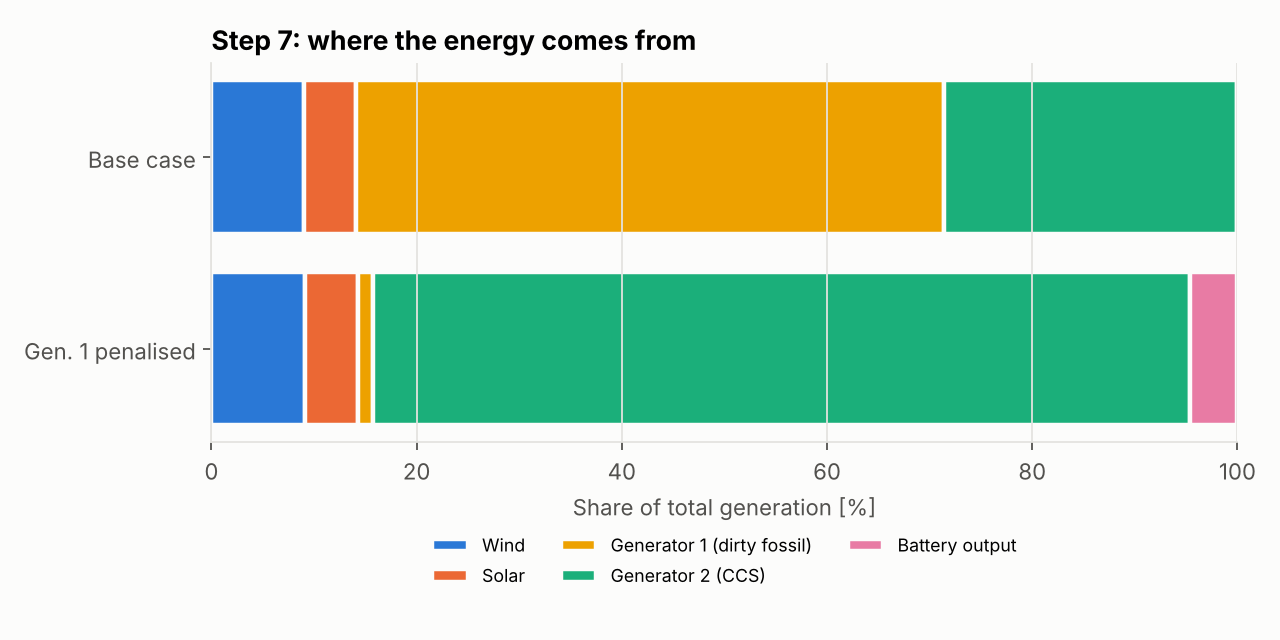
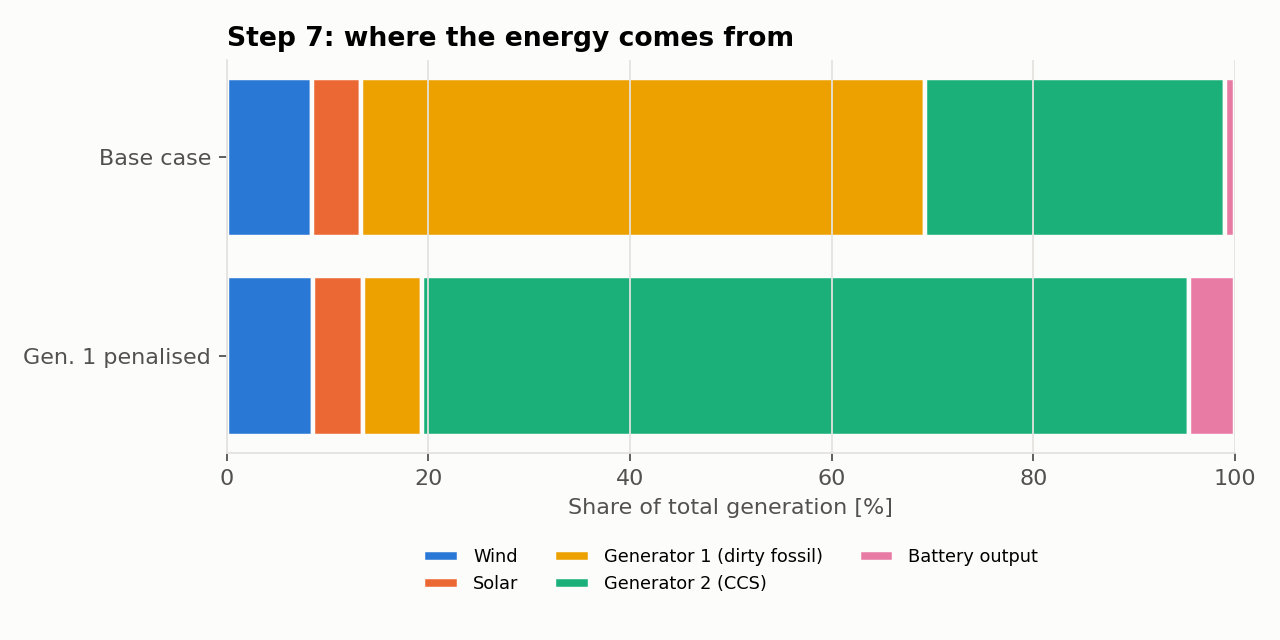
plots updated

diff --git a/src/island/plots.py b/src/island/plots.py
@@ -50,28 +50,34 @@ def plot_profiles(p: pd.DataFrame, path: Path) -> None:
 
 def plot_schedule(r: dict, path: Path, title: str) -> None:
     s = r["schedule"] / 1000
-    fig, ax = plt.subplots(2, 3, figsize=(13, 6.5), sharex=True)
-    ax = ax.ravel()
-    ax[0].plot(s.index, s["Power gen. 1 [W]"], color=COL["Gen 1"], lw=2, label="Generator 1 (dirty fossil)")
-    ax[0].plot(s.index, s["Power gen. 2 [W]"], color=COL["Gen 2"], lw=2, ls="--", label="Generator 2 (CCS)")
-    ax[0].set_title("Output of the generators"); ax[0].legend(fontsize=8)
-    ax[1].plot(s.index, s["Battery output power [W]"], color=COL["Battery"], lw=2, label="Output (discharge)")
-    ax[1].plot(s.index, s["Battery input power [W]"],  color=INK2,           lw=2, ls="--", label="Input (charge)")
-    ax[1].set_title("Battery input and output"); ax[1].legend(fontsize=8)
-    ax[2].plot(s.index, s["Battery energy level [Wh]"], color=INK, lw=2)
-    ax[2].set_title("Energy level in the battery [kWh]")
-    ax[3].plot(s.index, s["Wind power [W]"],  color=COL["Wind"],  lw=2, label="Wind")
-    ax[3].plot(s.index, s["Solar power [W]"], color=COL["Solar"], lw=2, label="Solar")
-    ax[3].set_title("Output of the renewables"); ax[3].legend(fontsize=8)
-    ax[4].plot(s.index, s["Load [W]"], color=INK, lw=2)
-    ax[4].set_title("Load")
-    ax[5].plot(s.index, s["Total generation [W]"],  color=INK,        lw=2, label="Total generation")
-    ax[5].plot(s.index, s["Total consumption [W]"], color=COL["Wind"], lw=2, ls=":", label="Total consumption")
-    ax[5].set_title("Generation vs. consumption"); ax[5].legend(fontsize=8)
-    for a in ax:
-        a.set_ylabel("Power [kW]" if a is not ax[2] else "Energy [kWh]")
-    for a in ax[3:]:
+    t = s.index
+    fig, ax = plt.subplots(2, 4, figsize=(16, 7))
+    g1, g2 = s["Power gen. 1 [W]"], s["Power gen. 2 [W]"]
+    ax[0, 0].plot(t, g1, color=COL["Gen 1"], lw=2, label="Generator 1 (dirty fossil)")
+    ax[0, 0].plot(t, g2, color=COL["Gen 2"], lw=2, ls="--", label="Generator 2 (CCS)")
+    ax[0, 0].plot(t, g1 + g2, color=INK, lw=1.5, ls=":", label="Total power")
+    ax[0, 0].set_title("Output of the generators"); ax[0, 0].legend(fontsize=8)
+    ax[0, 1].plot(t, s["Battery output power [W]"], color=COL["Battery"], lw=2)
+    ax[0, 1].set_title("Output of the battery")
+    w, so = s["Wind power [W]"], s["Solar power [W]"]
+    ax[0, 2].plot(t, w,  color=COL["Wind"],  lw=2, label="Wind")
+    ax[0, 2].plot(t, so, color=COL["Solar"], lw=2, label="Solar")
+    ax[0, 2].plot(t, w + so, color=INK, lw=1.5, ls=":", label="Total power")
+    ax[0, 2].set_title("Output of the renewables"); ax[0, 2].legend(fontsize=8, loc="lower left")
+    ax[0, 3].plot(t, s["Total generation [W]"], color=INK, lw=2)
+    ax[0, 3].set_title("Total generation")
+    ax[1, 0].plot(t, s["Load [W]"], color=INK, lw=2)
+    ax[1, 0].set_title("Load")
+    ax[1, 1].plot(t, s["Battery input power [W]"], color=INK2, lw=2)
+    ax[1, 1].set_title("Input of the battery")
+    ax[1, 2].plot(t, s["Battery energy level [Wh]"], color=INK, lw=2)
+    ax[1, 2].set_title("Energy level in the battery")
+    ax[1, 3].plot(t, s["Total consumption [W]"], color=INK, lw=2)
+    ax[1, 3].set_title("Total consumption")
+    for a in ax.ravel():
         a.set_xlabel("Time of day [hours]")
+        a.set_ylabel("Power [kW]")
+    ax[1, 2].set_ylabel("Energy [kWh]")
     fig.suptitle(title, x=0.01, ha="left", fontweight="bold")
     _save(fig, path)
 

diff --git a/src/island/data.py b/src/island/data.py
@@ -34,16 +34,17 @@ def island_profile(seed: int = 3) -> pd.DataFrame:
     rng = np.random.default_rng(seed)
     h = np.arange(HOURS)
 
-    load = (
-        23_500
-        + 14_000 * np.exp(-0.5 * ((h - 9.0) / 2.0) ** 2)
-        + 18_000 * np.exp(-0.5 * ((h - 13.5) / 2.2) ** 2)
-        + 34_000 * np.exp(-0.5 * ((h - 19.5) / 2.4) ** 2)
-    ) * rng.normal(1.0, 0.02, HOURS)
+    # Load: typical residential day — flat night base, morning rise, busy midday,
+    # sharp evening peak when people come home, steep drop late at night.
+    shape_kw = np.array([24.0, 23.6, 23.4, 23.5, 23.8, 24.4, 26.0, 30.5, 37.5, 43.0, 46.0, 45.0,
+                         47.5, 45.5, 42.0, 41.5, 44.5, 56.0, 66.0, 63.5, 60.0, 58.5, 47.0, 29.0])
+    load = shape_kw * 1000 * rng.normal(1.0, 0.01, HOURS)
 
+    # Solar: clear-sky bell between ~05:30 and ~21:00 with passing clouds, peak about 6 kW
     shape = np.clip(np.sin(np.pi * (h - 5.5) / 15.5), 0, None) ** 1.4
     solar = 6_000 * shape * np.clip(rng.normal(0.95, 0.10, HOURS), 0.6, 1.0)
 
+    # Wind: smooth random series around a 15 % capacity factor (a calm day), turbines max 33.6 kW
     x = np.zeros(HOURS)
     for t in range(1, HOURS):
         x[t] = 0.85 * x[t - 1] + rng.normal(0, 0.04)

diff --git a/README.md b/README.md
@@ -38,82 +38,91 @@ real-world costs. They are kept on purpose, so the results can be compared with 
 ### Step 1: Inspect the consumption and weather profile
 ![Step 1](assets/step1_profiles.png)
 
-The load is low at night (about 24 kW), rises in the morning, stays around 41–45 kW during the
-day and peaks at **57 kW around 19 h**, when people are home. Solar follows the sun and peaks
-around midday. Wind is low on this calm day. Together, wind and solar supply only **14 % of the
-daily load** and are below the load in every hour, so the generators and the battery are needed.
+The load is low at night (about 24 kW), rises in the morning, stays around 42–47 kW during the
+day, and then jumps to a sharp **evening peak of 67 kW at 18 h**, when people come home. It drops
+steeply late at night. Solar follows the sun and peaks around midday. Wind is low on this calm
+day. Together, wind and solar supply only **14 % of the daily load** and are below the load in
+every hour, so the generators and the battery are needed.
 
 ### Step 2: Build and solve the model
 The model finds the cheapest schedule for all 24 hours at once.
 
 ### Step 3: Check the power balance and the limits
 * Generation equals consumption in every hour (consumption includes battery charging).
-* Generator 1 stays between 10 and 40 kW, and Generator 2 between 10 and 19 kW.
+* Generator 1 stays between 10 and 40 kW, and Generator 2 between 10 and 21 kW.
 * Neither changes by more than 5 kW per hour.
 
 ### Step 4: Compare the costs of the generators
 | | Energy | Cost |
 |---|---:|---:|
-| Generator 1 (€0.06/Wh) | 538 kWh | €32,284 |
-| Generator 2 (€0.12/Wh) | 269 kWh | €32,286 |
-| Battery (€3.4/Wh) | 10.7 kWh charged | €36,271 |
-| **Total** | | **€100,841** |
+| Generator 1 (€0.06/Wh) | 557 kWh | €33,420 |
+| Generator 2 (€0.12/Wh) | 297 kWh | €35,640 |
+| Battery (€3.4/Wh) | 23.8 kWh in, 9.6 kWh out | €113,822 |
+| **Total** | | **€182,883** |
 
 Generator 2 is twice as expensive per Wh, so the model uses it as little as possible. It runs at
-its 10 kW minimum most of the day and only rises in the evening, when Generator 1 is limited by
-its 5 kW/h ramp and its 40 kW maximum.
+its 10 kW minimum most of the day and only rises in the morning and evening, when Generator 1
+is limited by its 5 kW/h ramp or its 40 kW maximum.
 
 ### Step 5: Plot the schedule and the costs
 ![Step 5 costs](assets/step5_costs_base.png)
 
-At night, both generators must run at their 10 kW minimum, but the load minus wind is lower
-than 20 kW. The surplus has nowhere to go, so the battery is forced to charge. Because the
-battery costs €3.4 per Wh, those few kilowatt-hours make the **battery the largest single cost**
-of the day. The battery never discharges, and its energy level stays around 15 kWh out of 50.
+* **At night,** both generators must run at their 10 kW minimum, which is more than the load
+  minus wind. The surplus has nowhere to go, so the battery is forced to charge.
+* **Before and during the evening peak,** the load rises faster than the generators can ramp. The
+  battery charges at 16 h and discharges at 18 h to fill the gap.
+* **Late at night,** the load drops faster than the generators can ramp down. The battery first
+  discharges (21–22 h) so that Generator 2 can come down, then absorbs the surplus at 23 h at its
+  7 kW maximum.
+
+Because every Wh in or out costs €3.4, the battery is the **largest cost of the day**, even
+though it stores very little energy. Its level stays between 5 and 21 kWh of its 50 kWh capacity.
 
 ### Step 6: Double the solar generation and make the battery cheaper (€1/Wh)
 ![Step 6](assets/step6_schedule.png)
 
-The total cost falls by **28 %** (€100,841 → €72,556). Almost all of the saving comes from the
-cheaper battery (€36,271 → €10,668). Doubling solar saves only about €2,700 on the generators,
+The total cost falls by **44 %** (€182,883 → €101,605). Almost all of the saving comes from the
+cheaper battery (€113,822 → €35,867). Doubling solar saves only about €3,300 on the generators,
 because solar is small compared with the load and is gone in the evening, when demand is highest.
 
 ### Step 7: Renewable share, and dirty fossil below 10 %
 ![Step 7](assets/step7_energy_share.png)
 
-In the base case, renewables supply **14 %** of generation and Generator 1 (dirty fossil) supplies
-**57 %**. To push dirty fossil below 10 %, Generator 1 is penalised in two ways:
+In the base case, renewables supply **13 %** of generation and Generator 1 (dirty fossil) supplies
+**56 %**. To push dirty fossil below 10 %, Generator 1 is penalised in two ways:
 
 ```python
 gens7[0].cost = 4.0   # 0.06 -> 4 EUR/Wh: now the most expensive option, even above the battery
 gens7[0].pmin = 0     # it no longer has to run at 10 kW all day, so it can switch off
 ```
 
-Dirty fossil drops to **1.6 %**. Generator 2 takes over, and the battery helps in the evening peak.
-Raising the cost alone would not be enough, because the 10 kW minimum would still force
-240 kWh of dirty fossil energy per day. (The total cost in this step includes the €4/Wh penalty,
-so it is not a real cost.)
+Dirty fossil drops to **5.9 %**. Generator 2 takes over, and the battery discharges in the evening
+peak. Generator 1 is still needed for a few evening hours, because Generator 2 can only ramp up
+5 kW per hour. Raising the cost alone would not be enough, because the 10 kW minimum would still
+force 240 kWh of dirty fossil energy per day. (The total cost in this step includes the €4/Wh
+penalty, so it is not a real cost.)
 
 ### Step 8: Reduce the costs even more
 ![Step 8](assets/step8_schedule.png)
 
 Making both generators flexible (minimum 0 kW, ramp 20 kW/h) and the battery cheaper (€1/Wh)
-cuts the total cost by **49 %** (€100,841 → €51,213). The cheap Generator 1 can now follow the load
+cuts the total cost by **69 %** (€182,883 → €56,141). The cheap Generator 1 can now follow the load
 on its own up to 40 kW. Generator 2 is only needed at the evening peak, and the battery is no
-longer forced to absorb surplus, so it is not used at all.
+longer forced to absorb surplus or cover fast changes, so it is not used at all.
 
 ---
 
 ## Key takeaways
 * Technical limits drive the schedule as much as prices do. The minimum output and ramp limits
   force the expensive generator to run and the battery to charge.
-* The battery's high cost per Wh made it the largest cost, even though it stored very little energy.
+* The battery mainly covers what the generators cannot do: the forced night surplus and fast load changes.
+  Its high cost per Wh made it the largest cost, even though it stored very little energy.
 * Making generators more flexible saved more money than adding solar.
 * Lowering dirty fossil generation needs both a higher price and the ability to switch the unit off.
 
 ---
 
-## Run it yourself (VS Code)
+## Run it yourself
 
 ```bash
 git clone https://github.com/parthivmehta1812/island-microgrid-dispatch.git
@@ -121,14 +130,20 @@ cd island-microgrid-dispatch
 python -m venv .venv
 # Windows: .venv\Scripts\activate    macOS/Linux: source .venv/bin/activate
 pip install -r requirements.txt
-python island_dispatch.py      # prints Steps 1-8 and saves all figures to ./results
+python island_dispatch.py      # prints Steps 1–8, saves plots to ./assets, data to ./results
 ```
 
 ```
 island-microgrid-dispatch/
-├── island_dispatch.py      # the whole study: data, model, Steps 1-8, plots
+├── island_dispatch.py      # entry point: runs Steps 1–8
 ├── requirements.txt
-└── results/                # figures, input profile, schedules, summary.csv, report.txt
+├── src/island/             # source package
+│   ├── data.py             # island profile, Generator & Battery dataclasses
+│   ├── model.py            # Pyomo optimisation model
+│   └── plots.py            # all figures
+├── assets/                 # plots committed to git (visible in this README)
+├── data/                   # generated input CSV (git-ignored)
+└── results/                # generated schedules, summary, report (git-ignored)
 ```
 
 ---
